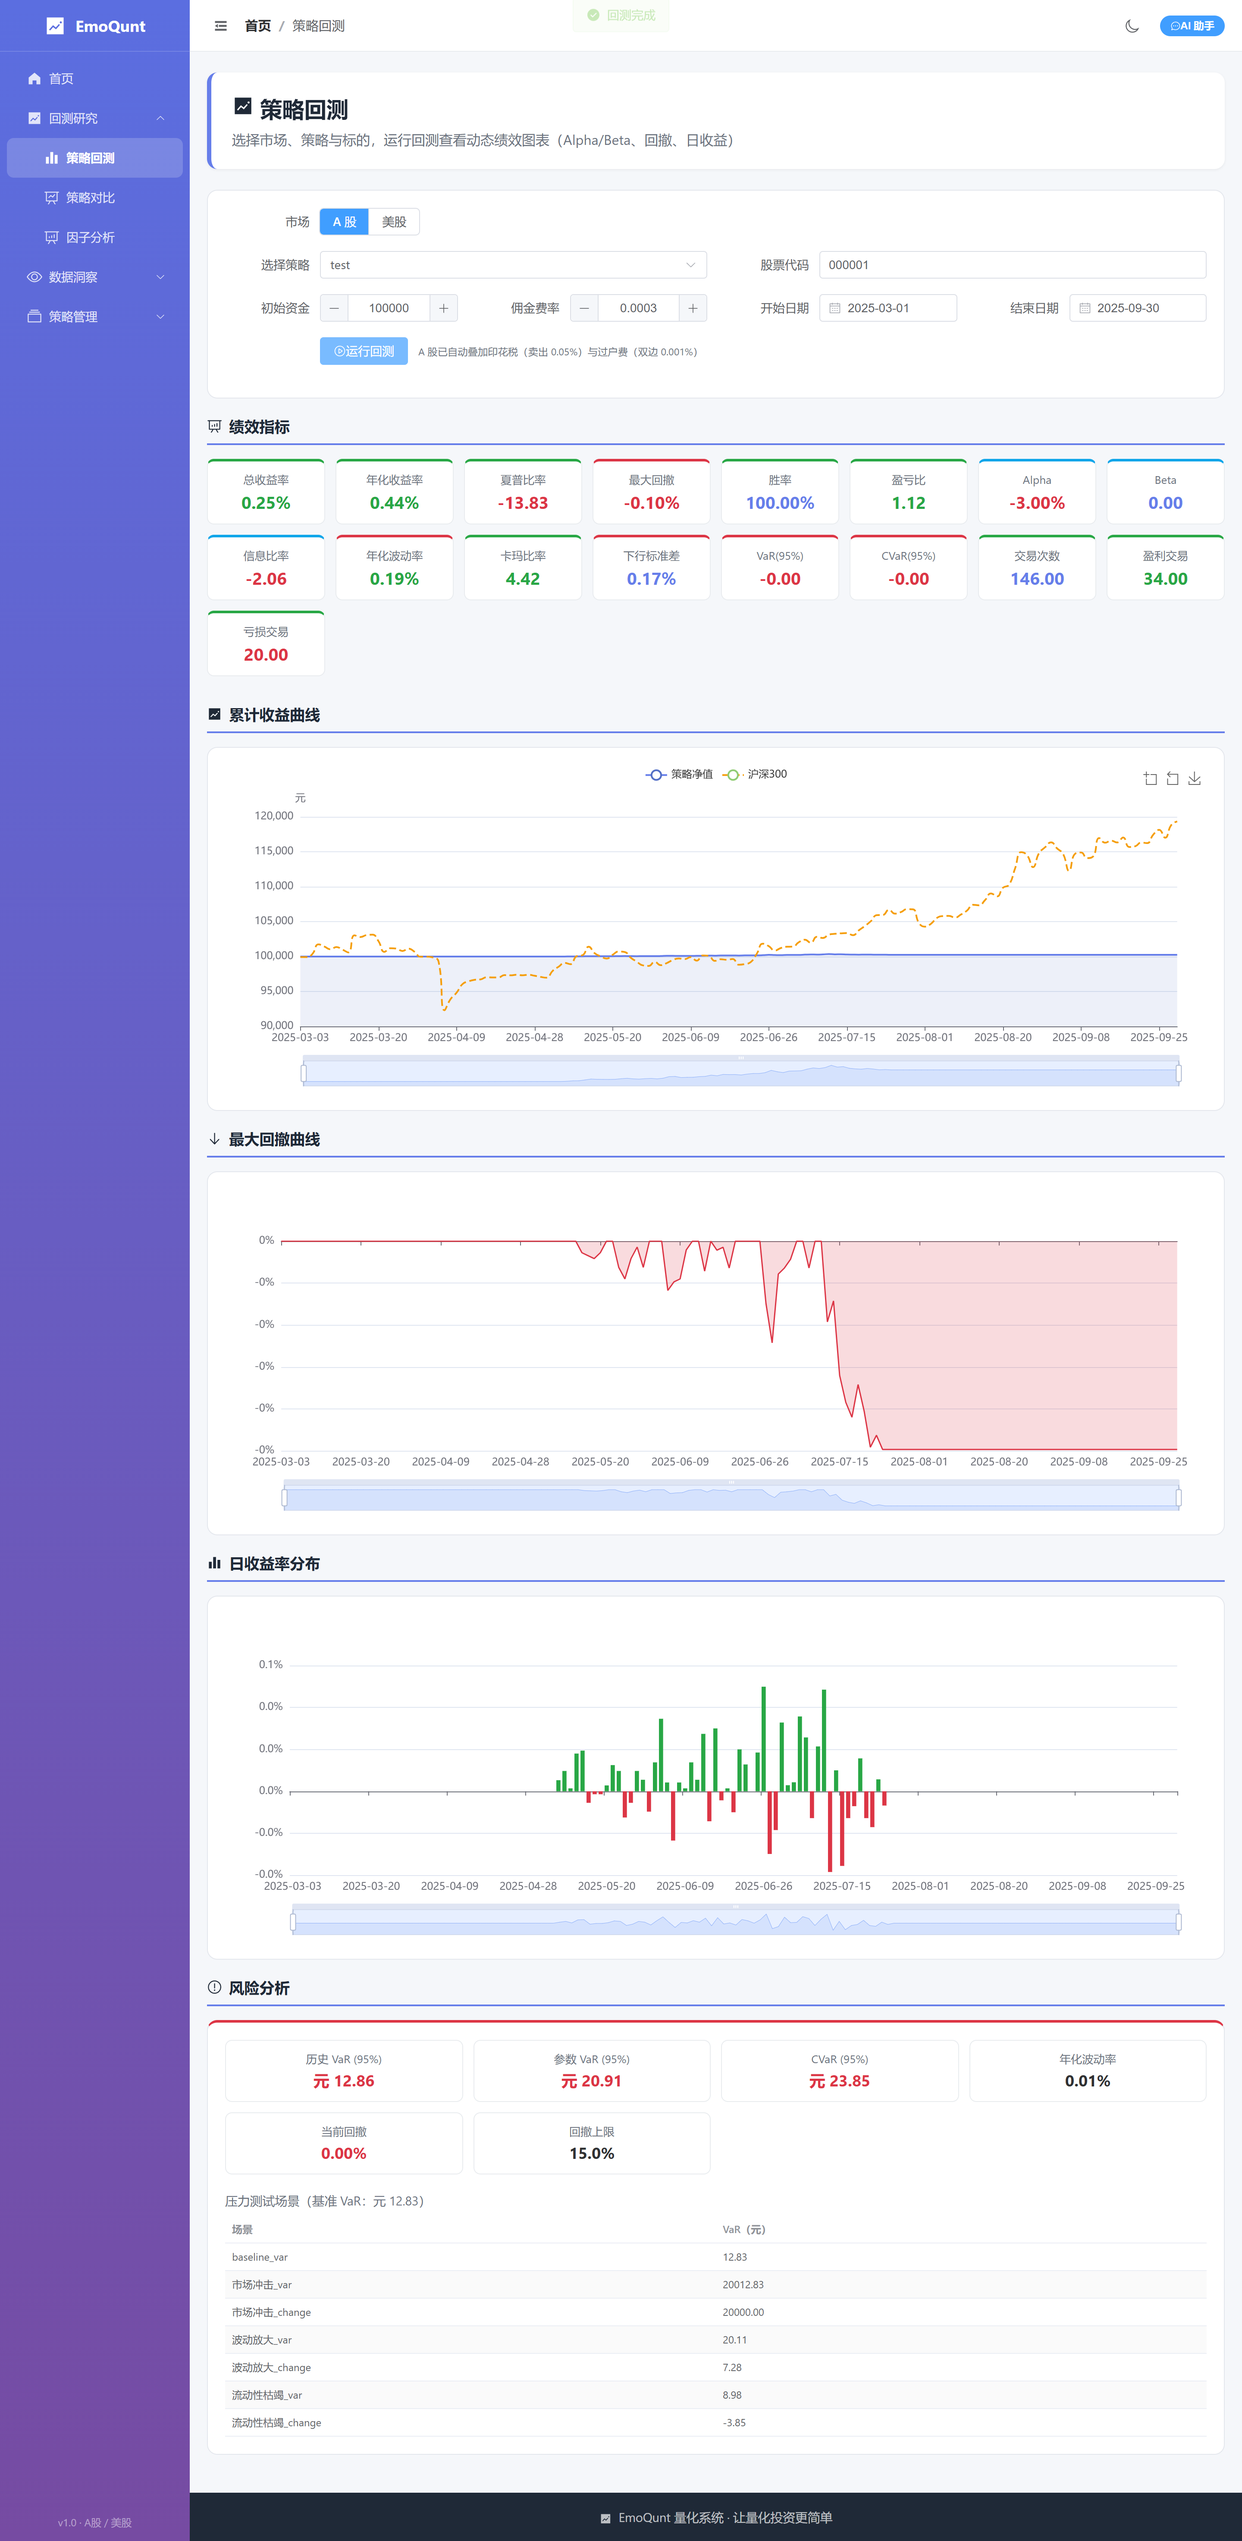
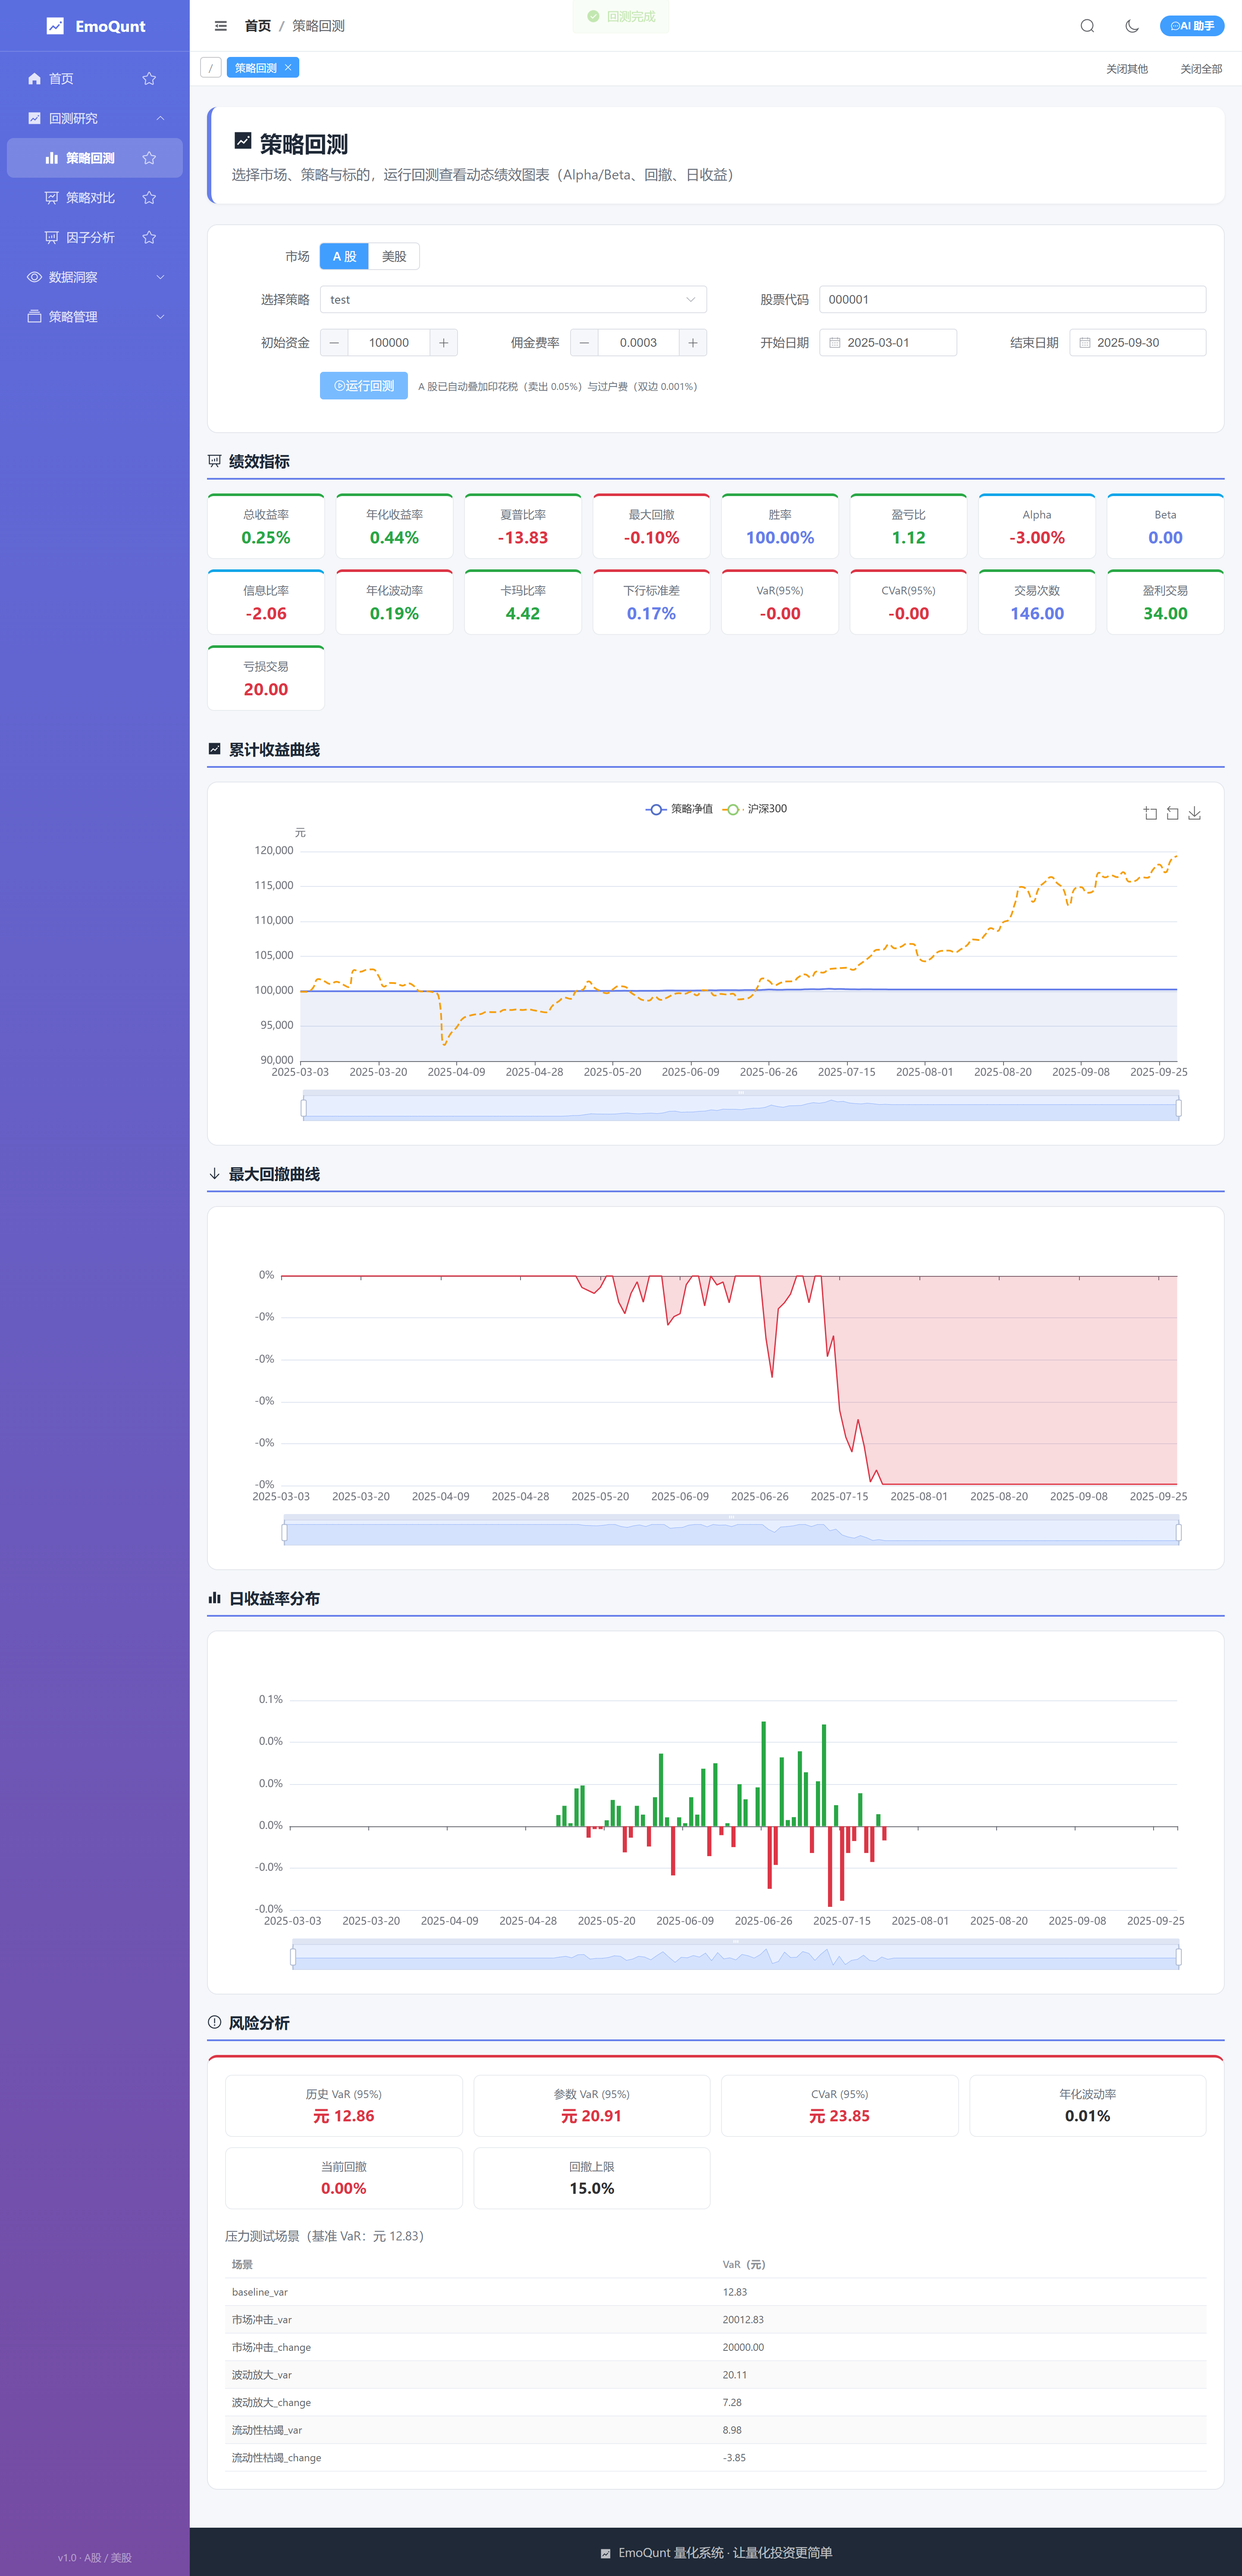
docs(readme): 更新中英文 README 与截图至 2026-08 迭代后界面
- 首页：补充命令面板 Cmd+K、标签页 Tabs、侧边栏收藏、可拖拽网格与情绪日历说明
- 数据层：补充 PG 连接池/TTL 分层、sentiment_results 快照与 /api/sentiment/calendar
- 截图：重拍 spa-home-light/dark、spa-backtest、spa-strategies、web-sentiment 至当前界面

diff --git a/README_EN.md b/README_EN.md
@@ -16,15 +16,15 @@ An intelligent quantitative-investment backtesting platform driven by sentiment 
 ### Data Layer (multi-source failover)
 - **A-share fallback chain**: Tushare Pro (optional, needs `TUSHARE_TOKEN`) → akshare Sina → Eastmoney → baostock, degrading automatically on failure.
 - **US two-tier fallback**: yfinance (primary) → akshare Sina.
-- **Optional PostgreSQL + Redis cache** (one-command `docker-compose.yml`): Redis hot cache + PG persistence, read order Redis → PG → CSV → network; silently degrades to pure network mode when unavailable.
-- Market data is cached locally under `stock_data/`.
+- **Optional PostgreSQL + Redis cache** (one-command `docker-compose.yml` via domestic mirror `docker.m.daocloud.io`, optional `REDIS_PASSWORD`): Redis hot cache + PG persistence, read order Redis → PG → CSV → network; silently degrades to pure network mode when unavailable. PG supports optional `psycopg_pool` connection pool + tiered TTL (today 300s / history 7d ±jitter).
+- Market data is cached locally under `stock_data/`; sentiment snapshots live at `nes_data/sentiment_results/{YYYYMMDD}.json` and feed the homepage sentiment calendar via `GET /api/sentiment/calendar` (local-only, threadpooled).
 
 ### Vue3 SPA (`/spa/*`, modern frontend)
-- **Collapsible grouped sidebar navigation** (Overview / Backtest Research / Data Insights / Strategy Management) + breadcrumbs + **dark mode** (Element Plus `html.dark`).
-- **Rich homepage**: quick action entries, market index strip, **watchlist panel** (add/remove, live price & change — red-up/green-down for A-shares, green-up/red-down for US; click to switch the main chart), **recent backtests** (summary + one-click re-run with parameter refill), top sectors / news / recommendations.
+- **Collapsible grouped sidebar navigation** (Overview / Backtest Research / Data Insights / Strategy Management) + breadcrumbs + **dark mode** (Element Plus `html.dark`) + **global command palette `Cmd+K`** + **top tab bar** + **sidebar favorites**.
+- **Rich homepage**: quick action entries, market index strip, **watchlist panel** (add/remove, live price & change — red-up/green-down for A-shares, green-up/red-down for US; click to switch the main chart), **recent backtests** (summary + one-click re-run with parameter refill), top sectors / news / recommendations, **sentiment calendar** (driven by `sentiment_results/{YYYYMMDD}.json`) and **draggable grid layout** (persisted as `emoqunt:homeLayout`).
 - **Dynamic ECharts**: zoomable equity/drawdown/daily-return charts; candlestick + volume K-line board.
 - **SPA-exclusive pages**: strategy comparison (2–5 strategies overlaid with a metrics table) and factor analysis (IC series / quantile cumulative returns / monotonicity).
-- **Browser-local persistence** (zero-dependency Pinia plugin, `emoqunt:`-prefixed localStorage): UI preferences (theme/sidebar), watchlist, backtest history & last form, AI chat history — all survive a refresh.
+- **Browser-local persistence** (zero-dependency Pinia plugin, `emoqunt:`-prefixed localStorage): UI preferences (theme/sidebar), watchlist, backtest history & last form, AI chat history, favorites/tabs/home layout — all survive a refresh.
 - **AI investment assistant**: global drawer chat panel, LangGraph ReAct agent, SSE streaming, Markdown rendering, visible tool calls.
 
 ### Classic Jinja2 Frontend (`/`, server-rendered)
@@ -49,10 +49,11 @@ EmoQunt/
 ├── frontend/               # Vue3 SPA (Vite + TS + Element Plus + ECharts + Pinia)
 │   └── src/
 │       ├── views/          # Home/Backtest/Strategies/Sentiment/Recommend/Compare/Factor
-│       ├── stores/         # Pinia stores (chat/ui/watchlist/backtestHistory + persist plugin)
+│       ├── stores/         # Pinia stores (chat/ui/watchlist/backtestHistory/favorites/tabs/homeLayout + persist plugin)
 │       ├── api/            # axios wrapper + SSE parsing + type definitions
-│       └── layouts/        # Sidebar + breadcrumb + dark-mode layout
-├── nes_data/               # Sentiment data & snapshots (sentiment_results/{YYYYMMDD}.json)
+│       ├── components/     # CommandPalette/AppTabs/SentimentCalendar/ChatPanel, etc.
+│       └── layouts/        # Sidebar (with favorites) + breadcrumbs + tabs + dark/command palette layout
+├── nes_data/               # Sentiment data & snapshots (sentiment_results/{YYYYMMDD}.json, feeds the homepage calendar & backtest sentiment filter)
 ├── src/
 │   ├── agent/              # LangGraph ReAct investment assistant
 │   ├── Strategy/           # Strategy base + dynamic factory + sentiment filter + user strategies
@@ -71,7 +72,9 @@ EmoQunt/
 
 ## Page Previews
 
-### SPA Home (light) — sidebar nav / index strip / watchlist / K-line board
+> Screenshots are captured locally via `conda run -n qdt python docs/screenshots/_capture.py` against the source stack (`web_app.py` + `db/cache`); light/dark home, backtest results and strategy list are from the 2026-08 iteration (with command palette, tab bar, draggable grid and sentiment calendar).
+
+### SPA Home (light) — sidebar nav / index strip / watchlist / K-line board / sentiment calendar
 ![SPA Home (light)](docs/screenshots/spa-home-light.png)
 
 ### SPA Home (dark mode) — persists across reloads
@@ -112,7 +115,8 @@ python web_app.py            # http://127.0.0.1:8000
 
 ### Optional: enable the database cache layer
 ```bash
-docker compose up -d         # PostgreSQL 16 + Redis 7; connection params in .env
+docker compose up -d         # PostgreSQL 16 + Redis 7 (via domestic mirror docker.m.daocloud.io); connection params in .env
+# Pip also defaults to a domestic mirror; override with --build-arg PIP_INDEX_URL if needed
 ```
 
 ### Run Tests
@@ -161,6 +165,7 @@ Both frontends share the same `/api/*` endpoints (data-heavy handlers run in a t
 | `/api/factor/analyze` | POST | Factor IC / quantile analysis |
 | `/api/kline` | GET | K-line OHLCV (`stock_code` / `market` / `days`) |
 | `/api/sentiment` / `sentiment/data` | GET | Sentiment data |
+| `/api/sentiment/calendar` | GET | Sentiment calendar (scans local `sentiment_results/*.json` for the homepage calendar) |
 | `/api/daily-recommend` (`/refresh`) | GET | Daily recommendations (force refresh) |
 | `/api/agent/chat` | POST | AI assistant (SSE streaming) |
 | `/api/agent/chat/sync` | POST | AI assistant (non-streaming) |
@@ -182,8 +187,8 @@ Both frontends share the same `/api/*` endpoints (data-heavy handlers run in a t
 
 ## Tech Stack
 
-- **Backend**: FastAPI + Uvicorn + Jinja2; data-heavy handlers threadpooled
-- **SPA frontend**: Vue 3 + TypeScript + Vite + Element Plus + ECharts + Pinia (with a homegrown localStorage persistence plugin)
+- **Backend**: FastAPI + Uvicorn + Jinja2; data-heavy handlers threadpooled; optional `psycopg_pool` pool + cache layer
+- **SPA frontend**: Vue 3 + TypeScript + Vite + Element Plus + ECharts + Pinia (with a homegrown localStorage persistence plugin, including a draggable home grid with persisted layout)
 - **Classic frontend**: Bootstrap 5.3 + Font Awesome 6
 - **Data**: akshare / Tushare Pro (optional) / baostock / yfinance; optional PostgreSQL 16 + Redis 7 cache
 - **Backtesting**: backtrader + custom dual-market cost models

diff --git a/README.md b/README.md
@@ -16,15 +16,15 @@
 ### 数据层（多源容错）
 - **A股回退链**：Tushare Pro（可选，需 `TUSHARE_TOKEN`）→ akshare 新浪源 → 东财源 → baostock，任一环节失败自动降级
 - **美股两级回退**：yfinance（主）→ akshare 新浪源
-- **可选 PostgreSQL + Redis 缓存**（`docker-compose.yml` 一键启动）：Redis 热缓存 + PG 持久化，读序 Redis → PG → CSV → 网络；不可用时自动静默降级为纯网络模式
-- 行情结果缓存至本地 `stock_data/`
+- **可选 PostgreSQL + Redis 缓存**（`docker-compose.yml` 一键启动，国内源 `docker.m.daocloud.io`，可选 `REDIS_PASSWORD`）：Redis 热缓存 + PG 持久化，读序 Redis → PG → CSV → 网络；不可用时自动静默降级为纯网络模式；PG 支持可选 `psycopg_pool` 连接池与 TTL 分层（当日 300s / 历史 7d±jitter）
+- 行情结果缓存至本地 `stock_data/`；情绪快照位于 `nes_data/sentiment_results/{YYYYMMDD}.json`，并通过 `GET /api/sentiment/calendar` 供首页情绪日历使用（纯本地读取，线程池化，不阻塞事件循环）
 
 ### Vue3 SPA（`/spa/*`，现代化前端）
-- **可折叠分组侧边栏导航**（总览 / 回测研究 / 数据洞察 / 策略管理）+ 面包屑 + **暗色模式**（Element Plus `html.dark` 方案）
-- **丰富首页**：功能快捷入口、大盘指数速览条、**自选股面板**（增删、最新价/涨跌幅，A股红涨绿跌·美股绿涨红跌，点击切换主图）、**最近回测**（摘要 + 一键重跑参数回填）、热门板块 / 当日舆情 / 个股推荐
+- **可折叠分组侧边栏导航**（总览 / 回测研究 / 数据洞察 / 策略管理）+ 面包屑 + **暗色模式**（Element Plus `html.dark` 方案）+ **全局命令面板 `Cmd+K`** + **顶部标签页 Tabs** + **侧边栏收藏**
+- **丰富首页**：功能快捷入口、大盘指数速览条、**自选股面板**（增删、最新价/涨跌幅，A股红涨绿跌·美股绿涨红跌，点击切换主图）、**最近回测**（摘要 + 一键重跑参数回填）、热门板块 / 当日舆情 / 个股推荐、**情绪日历**（`sentiment_results/{YYYYMMDD}.json` 驱动）与 **可拖拽网格布局**（`emoqunt:homeLayout` 持久化）
 - **动态 ECharts 图表**：回测收益/回撤/日收益曲线（可缩放），K 线蜡烛图 + 成交量
 - **SPA 独有页面**：策略对比（2~5 策略同台净值对比 + 指标表）、因子分析（IC 序列 / 分层累计收益 / 单调性检验）
-- **浏览器本地持久化**（零依赖 Pinia 插件，`emoqunt:` 前缀 localStorage）：UI 偏好（主题/侧边栏）、自选股、回测历史与上次表单、AI 对话记录——刷新全部保持
+- **浏览器本地持久化**（零依赖 Pinia 插件，`emoqunt:` 前缀 localStorage）：UI 偏好（主题/侧边栏）、自选股、回测历史与上次表单、AI 对话记录、收藏/标签页/首页布局——刷新全部保持
 - **AI 投资助手**：全局抽屉式对话面板，LangGraph ReAct agent，SSE 流式输出、Markdown 渲染、工具调用过程可见
 
 ### Jinja2 经典版（`/`，服务端渲染）
@@ -49,10 +49,11 @@ EmoQunt/
 ├── frontend/               # Vue3 SPA（Vite + TS + Element Plus + ECharts + Pinia）
 │   └── src/
 │       ├── views/          # 首页/回测/策略列表/舆情/推荐/策略对比/因子分析
-│       ├── stores/         # Pinia 状态（chat/ui/watchlist/backtestHistory + persist 插件）
+│       ├── stores/         # Pinia 状态（chat/ui/watchlist/backtestHistory/favorites/tabs/homeLayout + persist 插件）
 │       ├── api/            # axios 封装 + SSE 解析 + 类型定义
-│       └── layouts/        # 侧边栏 + 面包屑 + 暗色切换布局
-├── nes_data/               # 舆情数据与情绪快照（sentiment_results/{YYYYMMDD}.json）
+│       ├── components/     # CommandPalette/AppTabs/SentimentCalendar/ChatPanel 等
+│       └── layouts/        # 侧边栏（含收藏）+ 面包屑 + 标签页 + 暗色/命令面板布局
+├── nes_data/               # 舆情数据与情绪快照（sentiment_results/{YYYYMMDD}.json，供首页情绪日历与回测情绪过滤）
 ├── src/
 │   ├── agent/              # LangGraph ReAct 投资助手
 │   ├── Strategy/           # 策略基类 + 动态策略工厂 + 情绪过滤 + 用户策略
@@ -71,7 +72,9 @@ EmoQunt/
 
 ## 页面预览
 
-### SPA 首页（亮色）——侧边栏导航 / 指数速览 / 自选股 / K 线看板
+> 截图由 `conda run -n qdt python docs/screenshots/_capture.py` 在本机源码服务（`web_app.py` + `db/cache`）上自动采集，亮/暗色、回测结果与策略列表均为 2026-08 迭代后界面（含命令面板、标签页、可拖拽网格与情绪日历）。
+
+### SPA 首页（亮色）——侧边栏导航 / 指数速览 / 自选股 / K 线看板 / 情绪日历
 ![SPA 首页（亮色）](docs/screenshots/spa-home-light.png)
 
 ### SPA 首页（暗色模式）——主题切换后刷新仍保持
@@ -112,7 +115,8 @@ python web_app.py            # http://127.0.0.1:8000
 
 ### 可选：启用数据库缓存层
 ```bash
-docker compose up -d         # PostgreSQL 16 + Redis 7；连接参数见 .env
+docker compose up -d         # PostgreSQL 16 + Redis 7（国内源 docker.m.daocloud.io）；连接参数见 .env
+# 国内网络：基础镜像与 pip 均已配置国内源；构建镜像时可用 --build-arg PIP_INDEX_URL 覆盖
 ```
 
 ### 运行测试
@@ -161,6 +165,7 @@ pytest test/test_backtest.py -v
 | `/api/factor/analyze` | POST | 因子 IC / 分层分析 |
 | `/api/kline` | GET | K 线 OHLCV（`stock_code` / `market` / `days`） |
 | `/api/sentiment` / `sentiment/data` | GET | 舆情数据 |
+| `/api/sentiment/calendar` | GET | 情绪日历（扫描本地 `sentiment_results/*.json`，供首页日历使用） |
 | `/api/daily-recommend`（`/refresh`） | GET | 每日推荐（强制刷新） |
 | `/api/agent/chat` | POST | AI 助手（SSE 流式） |
 | `/api/agent/chat/sync` | POST | AI 助手（非流式） |
@@ -182,8 +187,8 @@ pytest test/test_backtest.py -v
 
 ## 技术栈
 
-- **后端**：FastAPI + Uvicorn + Jinja2；数据类接口线程池化
-- **SPA 前端**：Vue 3 + TypeScript + Vite + Element Plus + ECharts + Pinia（含自研 localStorage 持久化插件）
+- **后端**：FastAPI + Uvicorn + Jinja2；数据类接口线程池化；可选 `psycopg_pool` 连接池 + 数据缓存层
+- **SPA 前端**：Vue 3 + TypeScript + Vite + Element Plus + ECharts + Pinia（含自研 localStorage 持久化插件，含首页可拖拽网格与持久化布局）
 - **经典版前端**：Bootstrap 5.3 + Font Awesome 6
 - **数据**：akshare / Tushare Pro（可选）/ baostock / yfinance；可选 PostgreSQL 16 + Redis 7 缓存
 - **回测**：backtrader + 自定义双市场成本模型
